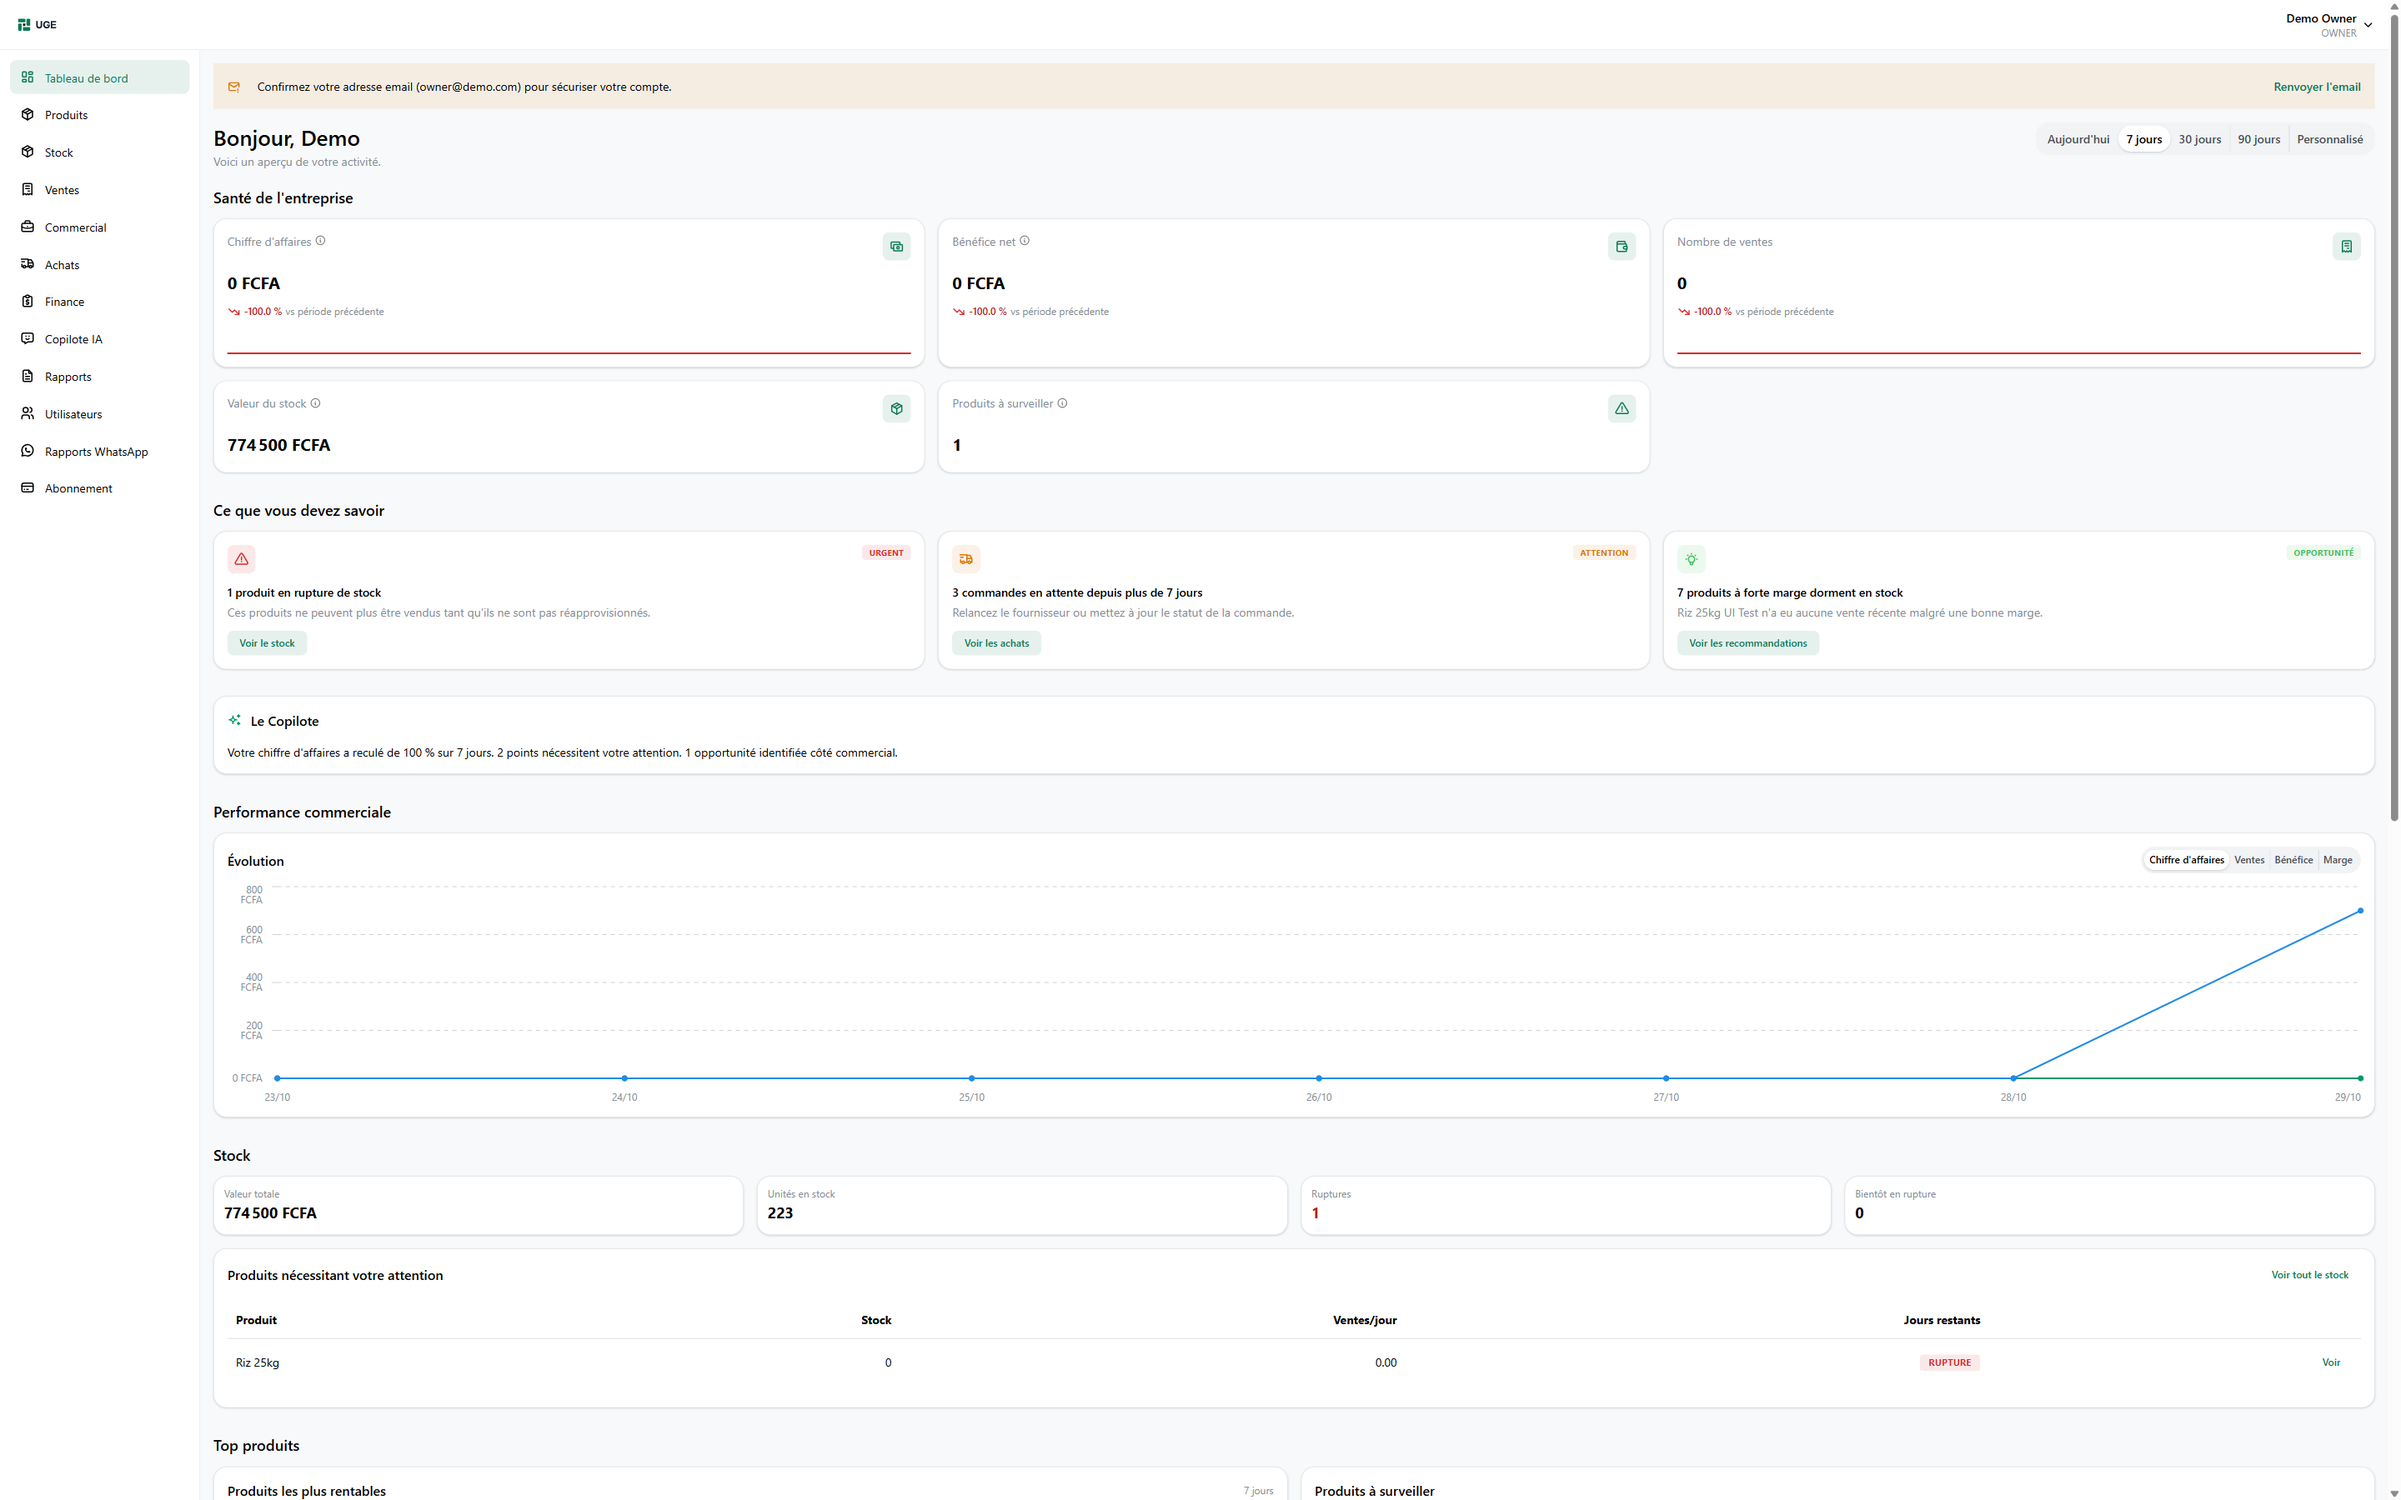
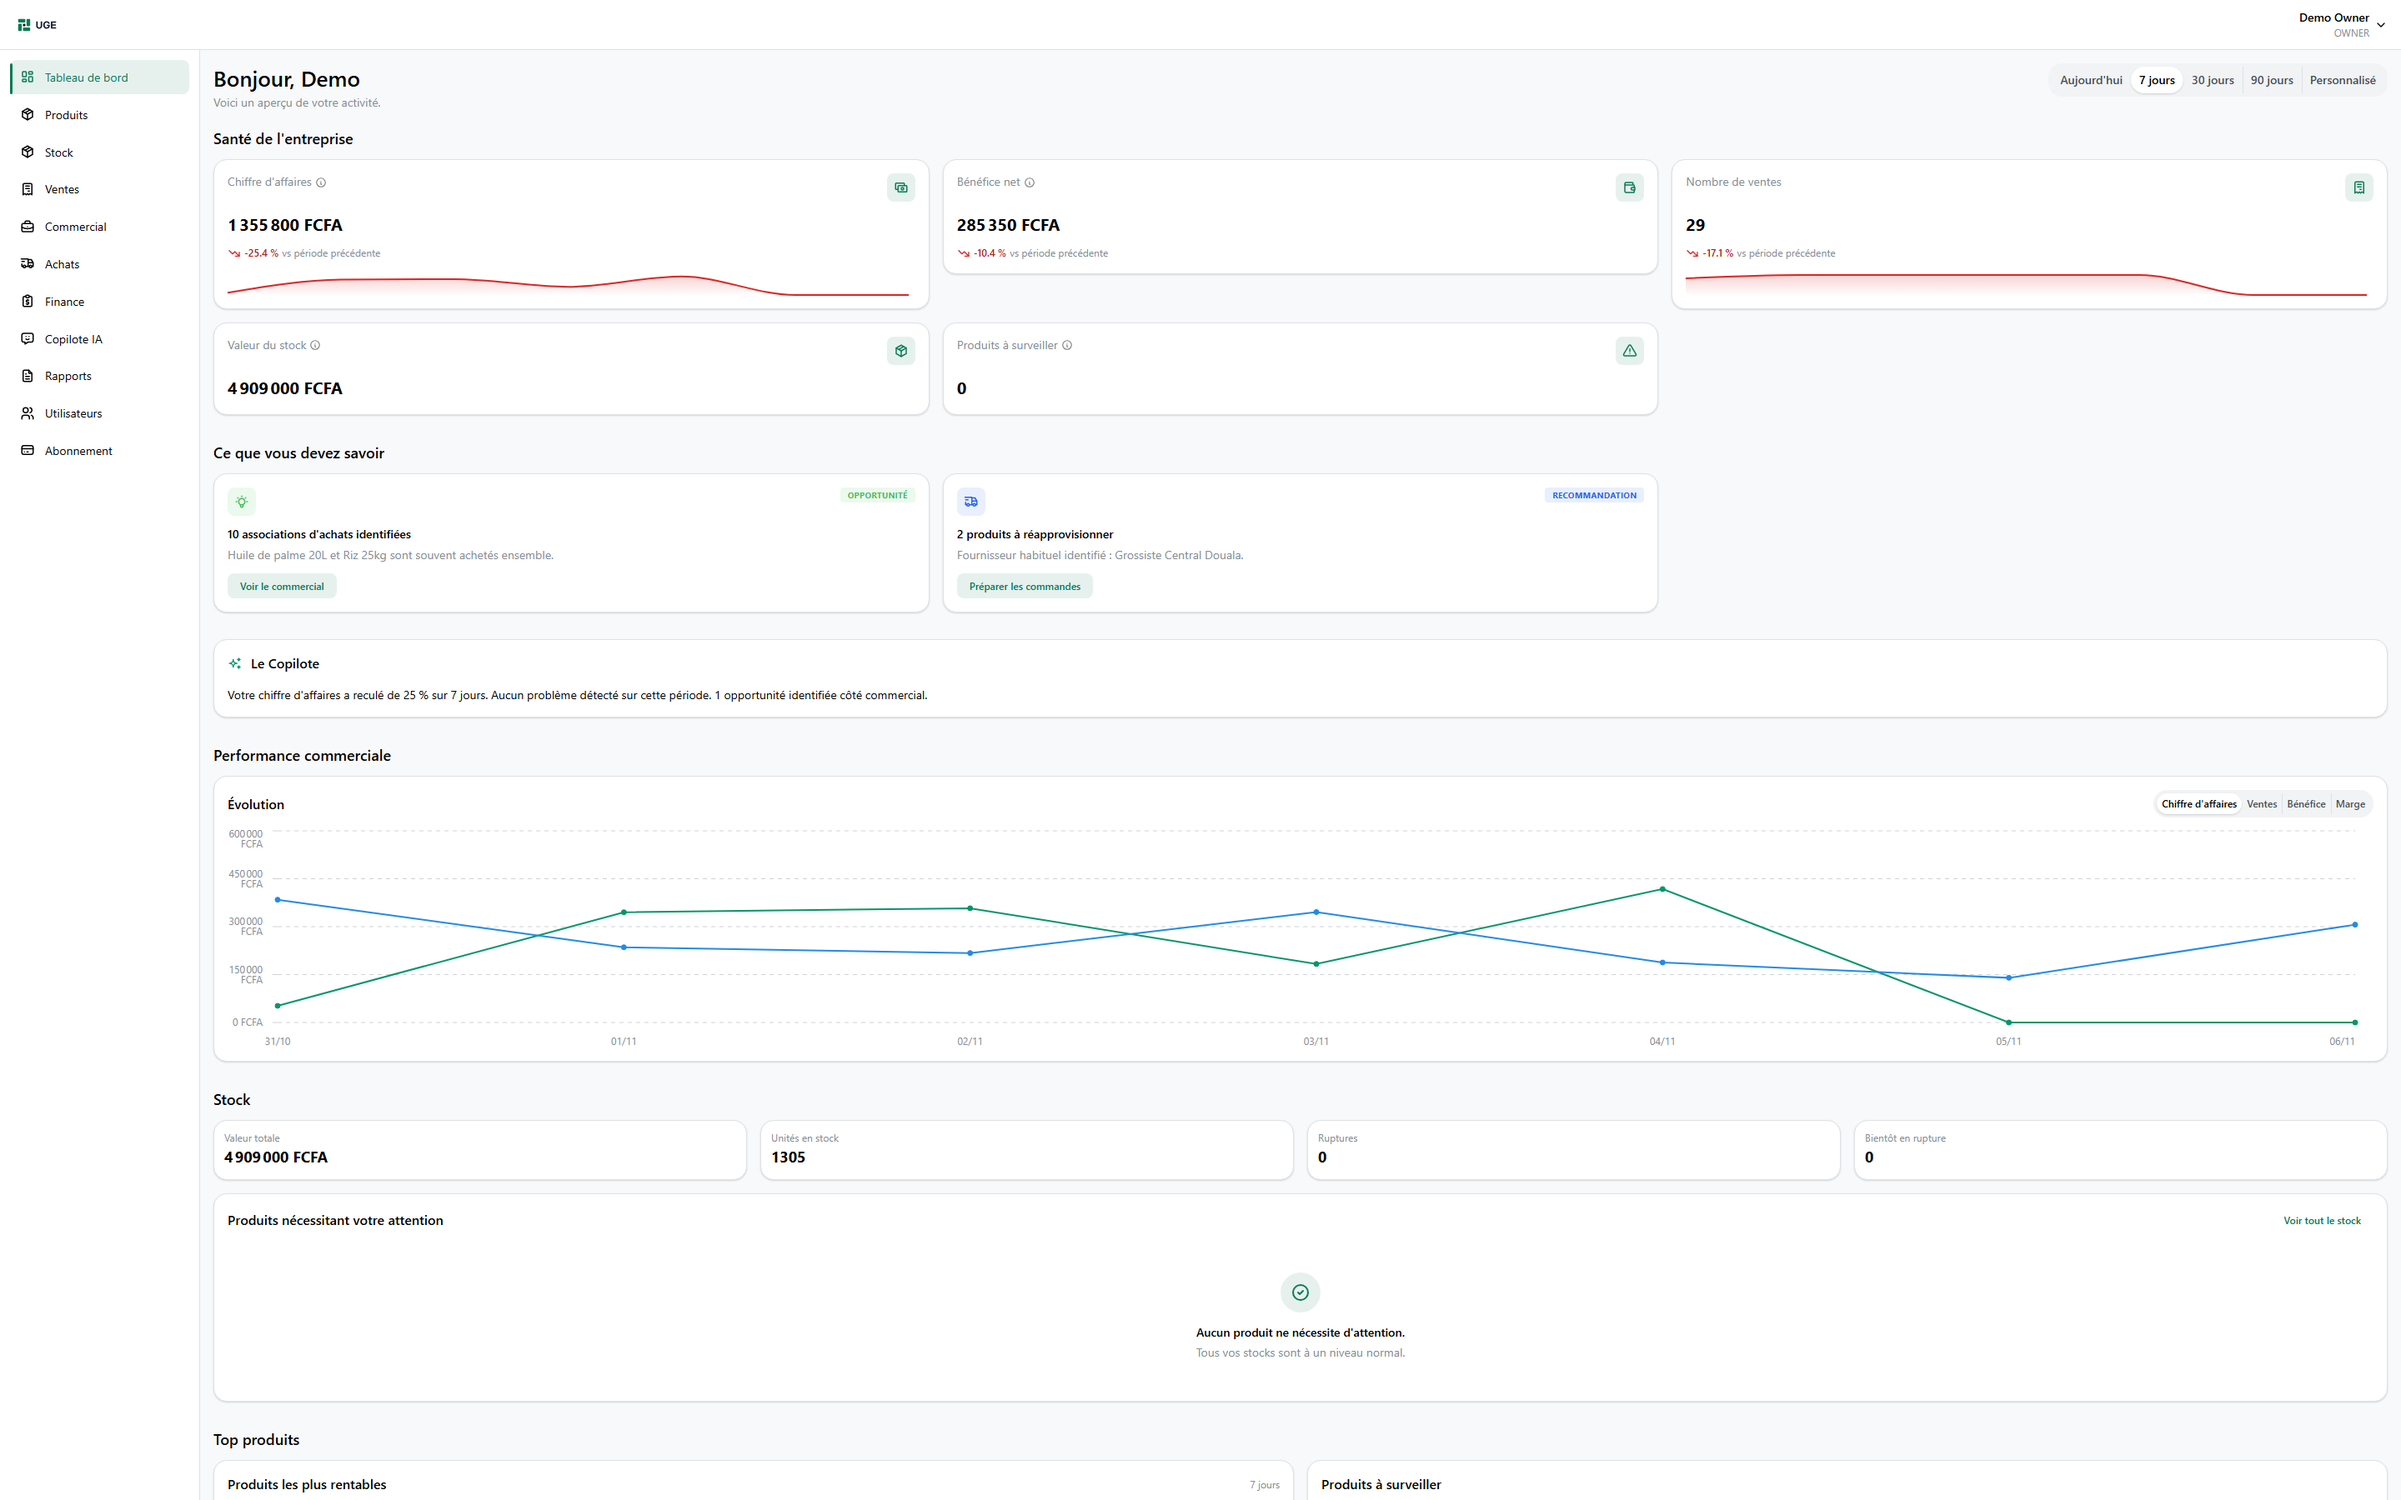
style(marketing): capture copilote réelle, retrait étoile, texte audience Afrique
- Remplace la capture du Copilote IA par une vraie capture (sans bouton
  WhatsApp, produits renommés Chaussures Adidas/Nike), taille inchangée
  dans la grille.
- Retire l'icône étoile à côté de "Bonjour Demo" dans la vraie app.
- Met à jour le texte de la section Audience (Cameroun/Afrique au lieu
  de PME France/Europe/Afrique).

diff --git a/apps/web/src/marketing/sections/WhatsAppSection.tsx b/apps/web/src/marketing/sections/WhatsAppSection.tsx
@@ -1,27 +1,20 @@
 import { Container, Group, SimpleGrid, Stack, Text, ThemeIcon, Title } from '@mantine/core';
-import { IconArrowRight, IconBrandWhatsapp, IconMessageChatbot, IconUser } from '@tabler/icons-react';
+import {
+  IconBellRinging,
+  IconChartBar,
+  IconFileText,
+  IconMessageChatbot,
+  type Icon,
+} from '@tabler/icons-react';
+import { ProductMockup } from '../ProductMockup';
 import { Reveal } from '../Reveal';
-import { WhatsAppMockup } from '../WhatsAppMockup';
 
-const EXAMPLES = [
-  '⚠ Stock faible détecté',
-  '📊 Rapport quotidien disponible',
-  '💡 Opportunité commerciale détectée',
-  '🤖 Le Copilote vous recommande…',
+const HIGHLIGHTS: { icon: Icon; label: string }[] = [
+  { icon: IconChartBar, label: 'Suivi des ventes et des performances' },
+  { icon: IconBellRinging, label: 'Alertes sur les stocks et les activités' },
+  { icon: IconFileText, label: 'Rapports détaillés accessibles à tout moment' },
+  { icon: IconMessageChatbot, label: 'Copilote IA pour accompagner vos décisions' },
 ];
-
-function FlowStep({ icon: IconComponent, label }: { icon: typeof IconMessageChatbot; label: string }) {
-  return (
-    <Stack align="center" gap={4}>
-      <ThemeIcon color="emerald" variant="light" size={40} radius="xl">
-        <IconComponent size={20} />
-      </ThemeIcon>
-      <Text size="xs" c="dimmed" fw={500}>
-        {label}
-      </Text>
-    </Stack>
-  );
-}
 
 export function WhatsAppSection() {
   return (
@@ -29,34 +22,30 @@ export function WhatsAppSection() {
       <SimpleGrid cols={{ base: 1, md: 2 }} spacing={60} verticalSpacing={40}>
         <Reveal>
           <Stack justify="center" gap="md" h="100%">
-            <Group gap={4} wrap="nowrap">
-              <FlowStep icon={IconMessageChatbot} label="Copilote" />
-              <IconArrowRight size={16} color="var(--mantine-color-gray-4)" style={{ marginBottom: 20 }} />
-              <FlowStep icon={IconBrandWhatsapp} label="WhatsApp" />
-              <IconArrowRight size={16} color="var(--mantine-color-gray-4)" style={{ marginBottom: 20 }} />
-              <FlowStep icon={IconUser} label="Dirigeant" />
-            </Group>
-
             <Title order={2} fz={{ base: 26, sm: 32 }}>
-              Votre entreprise continue de vous informer, même lorsque vous n'êtes pas devant votre
-              écran.
+              Gardez le contrôle de votre entreprise, où que vous soyez.
             </Title>
             <Text c="dimmed" size="lg">
-              Votre entreprise peut vous tenir informé directement sur WhatsApp — même lorsque vous
-              n'êtes pas devant votre ordinateur.
+              Retrouvez vos indicateurs, suivez vos activités et consultez vos rapports journaliers
+              et mensuels directement depuis votre espace UGE.
             </Text>
-            <Stack gap="xs">
-              {EXAMPLES.map((item) => (
-                <Text key={item} size="sm" fw={500}>
-                  {item}
-                </Text>
+            <Stack gap="sm">
+              {HIGHLIGHTS.map((item) => (
+                <Group key={item.label} gap="sm" wrap="nowrap">
+                  <ThemeIcon color="emerald" variant="light" radius="xl" size={28}>
+                    <item.icon size={15} />
+                  </ThemeIcon>
+                  <Text size="sm" fw={500}>
+                    {item.label}
+                  </Text>
+                </Group>
               ))}
             </Stack>
           </Stack>
         </Reveal>
 
         <Reveal delay={100}>
-          <WhatsAppMockup />
+          <ProductMockup label="Aperçu — Rapports UGE" src="/screenshots/reports.png" aspectRatio={2880 / 1180} />
         </Reveal>
       </SimpleGrid>
     </Container>

diff --git a/apps/web/src/marketing/pages/FonctionnalitesPage.tsx b/apps/web/src/marketing/pages/FonctionnalitesPage.tsx
@@ -1,9 +1,9 @@
 import { Anchor, Container, Stack, Text, Title } from '@mantine/core';
 import {
-  IconBrandWhatsapp,
   IconBuildingWarehouse,
   IconCash,
   IconChartBar,
+  IconFileText,
   IconMessageChatbot,
   IconPackage,
   IconReceipt,
@@ -62,9 +62,9 @@ const FEATURES: FeatureItem[] = [
   },
   {
     icon: IconChartBar,
-    title: 'Rapports',
+    title: 'Tableau de bord',
     description:
-      "Tableau de bord avec vue d'ensemble de l'activité, performance commerciale et historique des événements récents.",
+      "Vue d'ensemble de l'activité, performance commerciale et historique des événements récents.",
   },
   {
     icon: IconMessageChatbot,
@@ -73,9 +73,9 @@ const FEATURES: FeatureItem[] = [
       'Analyse vos données réelles pour répondre à vos questions, anticiper vos ruptures et repérer les anomalies.',
   },
   {
-    icon: IconBrandWhatsapp,
-    title: 'WhatsApp',
-    description: 'Recevez votre rapport quotidien et interrogez votre Copilote directement depuis WhatsApp.',
+    icon: IconFileText,
+    title: 'Rapports',
+    description: 'Rapports journaliers et mensuels, consultables dans votre espace et exportables en PDF.',
   },
 ];
 
@@ -118,13 +118,9 @@ export function FonctionnalitesPage() {
             <Anchor component={Link} to="/gestion-entreprise">
               gestion d'entreprise
             </Anchor>
-            , au{' '}
+            ou au{' '}
             <Anchor component={Link} to="/copilote-ia">
               Copilote IA
-            </Anchor>{' '}
-            ou à l'
-            <Anchor component={Link} to="/whatsapp">
-              intégration WhatsApp
             </Anchor>
             .
           </Text>

diff --git a/apps/web/src/marketing/sections/WhySection.tsx b/apps/web/src/marketing/sections/WhySection.tsx
@@ -2,7 +2,7 @@ import { Card, Container, SimpleGrid, Stack, Text, ThemeIcon, Title } from '@man
 import {
   IconBellRinging,
   IconBoxSeam,
-  IconBrandWhatsapp,
+  IconFileText,
   IconLayoutDashboard,
   IconMessageChatbot,
   IconReceipt,
@@ -21,7 +21,7 @@ const REASONS: { icon: Icon; title: string; description: string }[] = [
   { icon: IconLayoutDashboard, title: 'Tableau de bord', description: "Une vue d'ensemble claire de votre activité." },
   { icon: IconMessageChatbot, title: 'Copilote IA', description: 'Une intelligence qui lit vos données pour vous.' },
   { icon: IconBellRinging, title: 'Alertes', description: 'Prévenu automatiquement quand quelque chose compte.' },
-  { icon: IconBrandWhatsapp, title: 'WhatsApp', description: 'Informé directement, même loin de votre écran.' },
+  { icon: IconFileText, title: 'Rapports', description: 'Rapports journaliers et mensuels, consultables et exportables en PDF.' },
   { icon: IconTrendingUp, title: 'Analyse et recommandations', description: 'Des données transformées en actions concrètes.' },
 ];
 

diff --git a/apps/web/src/pages/copilot/CopilotPage.tsx b/apps/web/src/pages/copilot/CopilotPage.tsx
@@ -24,7 +24,6 @@ import {
   IconReportAnalytics,
   IconSend,
   IconShieldExclamation,
-  IconSparkles,
   IconTrash,
   IconTruckDelivery,
 } from '@tabler/icons-react';
@@ -210,12 +209,9 @@ export function CopilotPage() {
           <Stack gap="sm">
             {messages.length === 0 && (
               <Stack gap="lg" py="md">
-                <Group gap="xs">
-                  <IconSparkles size={22} color="var(--mantine-color-emerald-6)" />
-                  <Title order={4}>
-                    Bonjour {user?.firstName}, j'ai analysé votre activité.
-                  </Title>
-                </Group>
+                <Title order={4}>
+                  Bonjour {user?.firstName}, j'ai analysé votre activité.
+                </Title>
 
                 {hasRecommendations ? (
                   <SimpleGrid cols={{ base: 1, sm: 2, lg: 3 }}>

diff --git a/apps/web/src/marketing/sections/AudienceSection.tsx b/apps/web/src/marketing/sections/AudienceSection.tsx
@@ -21,8 +21,8 @@ export function AudienceSection() {
               Pensé pour les entreprises qui vendent et qui stockent.
             </Title>
             <Text c="dimmed" size="lg">
-              Que vous soyez une PME en France, en Europe ou en Afrique, UGE
-              s'adapte à votre activité.
+              Que vous soyez une entreprise au Cameroun ou ailleurs en Afrique, UGE
+              s'adapte aux réalités de votre activité.
             </Text>
           </Stack>
 
